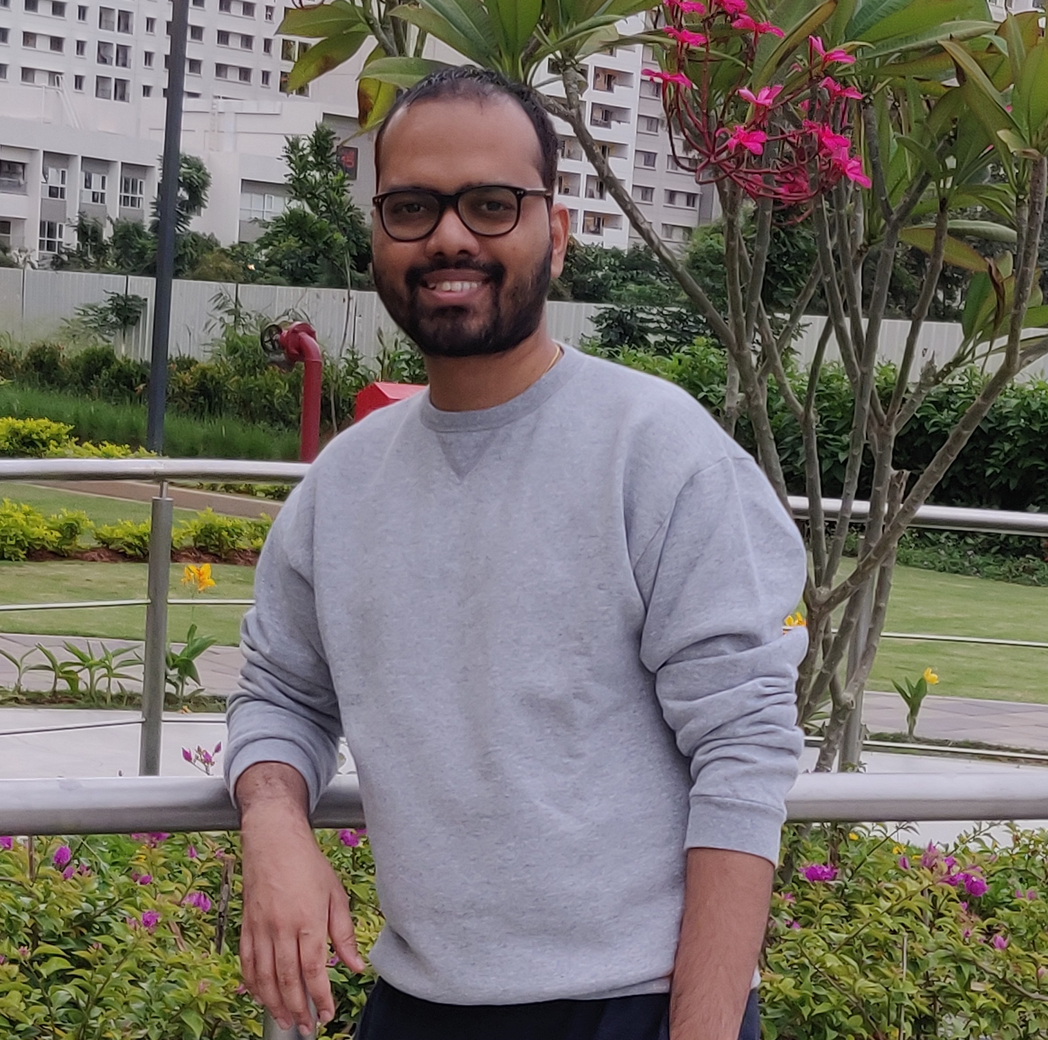
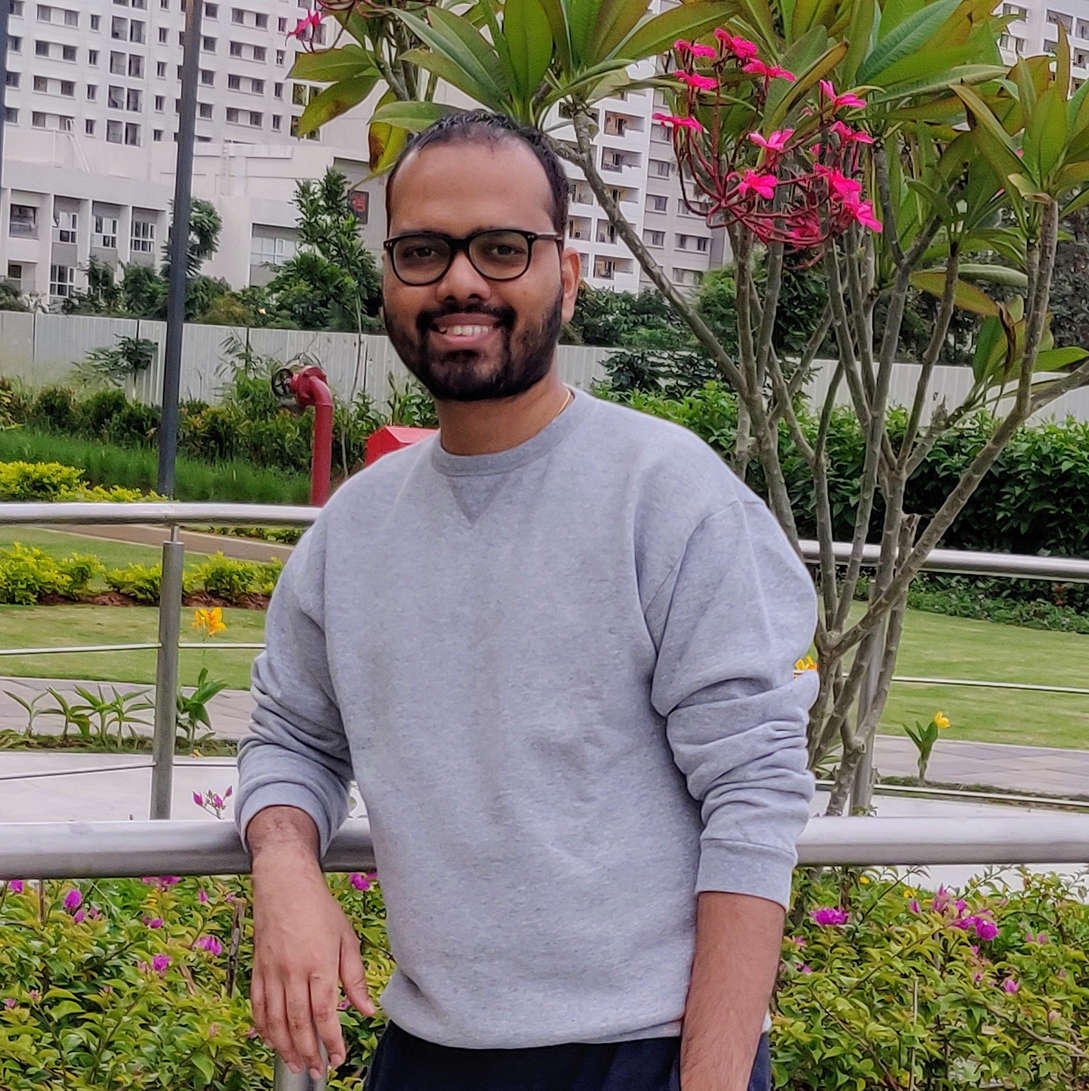
rebuilding site Sun Jul 19 23:51:14 IST 2020

diff --git a/index.html b/index.html
@@ -735,7 +735,7 @@
       
     
     
-      <a href="/authors/vamsee/"><img class="portrait" src="/authors/vamsee/avatar_huacdd85646c37b280ab791a4f75cf8417_1450269_150x150_fill_q90_lanczos_center.jpg" alt="Avatar"></a>
+      <a href="/authors/vamsee/"><img class="portrait" src="/authors/vamsee/avatar_hud9c3f324c40695650e98ba4a907c1c5a_1285095_2560x2560_fill_q100_lanczos_center.jpg" alt="Avatar"></a>
     
 
     <div class="portrait-title">
@@ -767,7 +767,7 @@
       
     
     
-      <a href="/authors/bibek/"><img class="portrait" src="/authors/bibek/avatar_huf88d85c3558c3c802d2f6a9111a0a7c9_75331_150x150_fill_q90_lanczos_center.jpg" alt="Avatar"></a>
+      <a href="/authors/bibek/"><img class="portrait" src="/authors/bibek/avatar_huf88d85c3558c3c802d2f6a9111a0a7c9_75331_2560x2560_fill_q100_lanczos_center.jpg" alt="Avatar"></a>
     
 
     <div class="portrait-title">
@@ -792,7 +792,7 @@
       
     
     
-      <a href="/authors/pulkit/"><img class="portrait" src="/authors/pulkit/avatar_huf508247faad0400e43cdf99f96928a70_237040_150x150_fill_q90_lanczos_center.jpg" alt="Avatar"></a>
+      <a href="/authors/pulkit/"><img class="portrait" src="/authors/pulkit/avatar_huf508247faad0400e43cdf99f96928a70_237040_2560x2560_fill_q100_lanczos_center.jpg" alt="Avatar"></a>
     
 
     <div class="portrait-title">
@@ -1054,7 +1054,7 @@
       
       
       <a href="/project/xps/" >
-        <img src="/project/xps/featured_hufec4c31f99f178abcc006d350f91dfd5_161139_540x0_resize_q90_lanczos.jpg" itemprop="image" alt="">
+        <img src="/project/xps/featured_hufec4c31f99f178abcc006d350f91dfd5_161139_540x0_resize_q100_lanczos.jpg" itemprop="image" alt="">
       </a>
       
     </div>
@@ -1143,7 +1143,7 @@
       
       
       <a href="/project/ips/" >
-        <img src="/project/ips/featured_hufec4c31f99f178abcc006d350f91dfd5_279489_540x0_resize_q90_lanczos.jpg" itemprop="image" alt="">
+        <img src="/project/ips/featured_hufec4c31f99f178abcc006d350f91dfd5_279489_540x0_resize_q100_lanczos.jpg" itemprop="image" alt="">
       </a>
       
     </div>

diff --git a/project/ips/index.html b/project/ips/index.html
@@ -644,7 +644,7 @@
 
 <div class="article-header article-container featured-image-wrapper mt-4 mb-4" style="max-width: 720px; max-height: 540px;">
   <div style="position: relative">
-    <img src="/project/ips/featured_hufec4c31f99f178abcc006d350f91dfd5_279489_720x0_resize_q90_lanczos.jpg" alt="" class="featured-image">
+    <img src="/project/ips/featured_hufec4c31f99f178abcc006d350f91dfd5_279489_720x0_resize_q100_lanczos.jpg" alt="" class="featured-image">
     
   </div>
 </div>
@@ -691,7 +691,7 @@
   <div class="media author-card" itemscope itemtype="http://schema.org/Person">
     
       
-      <img class="portrait mr-3" src="/authors/vamsee/avatar_huacdd85646c37b280ab791a4f75cf8417_1450269_250x250_fill_q90_lanczos_center.jpg" itemprop="image" alt="Avatar">
+      <img class="portrait mr-3" src="/authors/vamsee/avatar_hud9c3f324c40695650e98ba4a907c1c5a_1285095_250x250_fill_q100_lanczos_center.jpg" itemprop="image" alt="Avatar">
     
 
     <div class="media-body">

diff --git a/project/xps/index.html b/project/xps/index.html
@@ -644,7 +644,7 @@
 
 <div class="article-header article-container featured-image-wrapper mt-4 mb-4" style="max-width: 720px; max-height: 540px;">
   <div style="position: relative">
-    <img src="/project/xps/featured_hufec4c31f99f178abcc006d350f91dfd5_161139_720x0_resize_q90_lanczos.jpg" alt="" class="featured-image">
+    <img src="/project/xps/featured_hufec4c31f99f178abcc006d350f91dfd5_161139_720x0_resize_q100_lanczos.jpg" alt="" class="featured-image">
     
   </div>
 </div>
@@ -692,7 +692,7 @@
   <div class="media author-card" itemscope itemtype="http://schema.org/Person">
     
       
-      <img class="portrait mr-3" src="/authors/vamsee/avatar_huacdd85646c37b280ab791a4f75cf8417_1450269_250x250_fill_q90_lanczos_center.jpg" itemprop="image" alt="Avatar">
+      <img class="portrait mr-3" src="/authors/vamsee/avatar_hud9c3f324c40695650e98ba4a907c1c5a_1285095_250x250_fill_q100_lanczos_center.jpg" itemprop="image" alt="Avatar">
     
 
     <div class="media-body">

diff --git a/teaching/assignments/1/index.html b/teaching/assignments/1/index.html
@@ -604,7 +604,7 @@ c) Which wavefunctions would be suitable approximate wavefunctions? [Hint: try t
   <div class="media author-card" itemscope itemtype="http://schema.org/Person">
     
       
-      <img class="portrait mr-3" src="/authors/vamsee/avatar_huacdd85646c37b280ab791a4f75cf8417_1450269_250x250_fill_q90_lanczos_center.jpg" itemprop="image" alt="Avatar">
+      <img class="portrait mr-3" src="/authors/vamsee/avatar_hud9c3f324c40695650e98ba4a907c1c5a_1285095_250x250_fill_q100_lanczos_center.jpg" itemprop="image" alt="Avatar">
     
 
     <div class="media-body">

diff --git a/teaching/assignments/3/index.html b/teaching/assignments/3/index.html
@@ -600,7 +600,7 @@ Determine the corresponding eigenvalue for $\hat H_0$ acting on $| \Phi_0 \rangl
   <div class="media author-card" itemscope itemtype="http://schema.org/Person">
     
       
-      <img class="portrait mr-3" src="/authors/vamsee/avatar_huacdd85646c37b280ab791a4f75cf8417_1450269_250x250_fill_q90_lanczos_center.jpg" itemprop="image" alt="Avatar">
+      <img class="portrait mr-3" src="/authors/vamsee/avatar_hud9c3f324c40695650e98ba4a907c1c5a_1285095_250x250_fill_q100_lanczos_center.jpg" itemprop="image" alt="Avatar">
     
 
     <div class="media-body">

diff --git a/teaching/assignments/0/index.html b/teaching/assignments/0/index.html
@@ -608,7 +608,7 @@ $$H^{QO}_{i,i-4} = \frac{1}{2}\sqrt{i(i-1)(i-2)(i-3)} ;\text{. (10pts)}$$</p>
   <div class="media author-card" itemscope itemtype="http://schema.org/Person">
     
       
-      <img class="portrait mr-3" src="/authors/vamsee/avatar_huacdd85646c37b280ab791a4f75cf8417_1450269_250x250_fill_q90_lanczos_center.jpg" itemprop="image" alt="Avatar">
+      <img class="portrait mr-3" src="/authors/vamsee/avatar_hud9c3f324c40695650e98ba4a907c1c5a_1285095_250x250_fill_q100_lanczos_center.jpg" itemprop="image" alt="Avatar">
     
 
     <div class="media-body">

diff --git a/teaching/assignments/2/index.html b/teaching/assignments/2/index.html
@@ -616,7 +616,7 @@ $$</p>
   <div class="media author-card" itemscope itemtype="http://schema.org/Person">
     
       
-      <img class="portrait mr-3" src="/authors/vamsee/avatar_huacdd85646c37b280ab791a4f75cf8417_1450269_250x250_fill_q90_lanczos_center.jpg" itemprop="image" alt="Avatar">
+      <img class="portrait mr-3" src="/authors/vamsee/avatar_hud9c3f324c40695650e98ba4a907c1c5a_1285095_250x250_fill_q100_lanczos_center.jpg" itemprop="image" alt="Avatar">
     
 
     <div class="media-body">

diff --git a/teaching/assignments/4/index.html b/teaching/assignments/4/index.html
@@ -616,7 +616,7 @@ $$</p>
   <div class="media author-card" itemscope itemtype="http://schema.org/Person">
     
       
-      <img class="portrait mr-3" src="/authors/vamsee/avatar_huacdd85646c37b280ab791a4f75cf8417_1450269_250x250_fill_q90_lanczos_center.jpg" itemprop="image" alt="Avatar">
+      <img class="portrait mr-3" src="/authors/vamsee/avatar_hud9c3f324c40695650e98ba4a907c1c5a_1285095_250x250_fill_q100_lanczos_center.jpg" itemprop="image" alt="Avatar">
     
 
     <div class="media-body">

diff --git a/teaching/assignments/20.1/index.html b/teaching/assignments/20.1/index.html
@@ -602,7 +602,7 @@
   <div class="media author-card" itemscope itemtype="http://schema.org/Person">
     
       
-      <img class="portrait mr-3" src="/authors/vamsee/avatar_huacdd85646c37b280ab791a4f75cf8417_1450269_250x250_fill_q90_lanczos_center.jpg" itemprop="image" alt="Avatar">
+      <img class="portrait mr-3" src="/authors/vamsee/avatar_hud9c3f324c40695650e98ba4a907c1c5a_1285095_250x250_fill_q100_lanczos_center.jpg" itemprop="image" alt="Avatar">
     
 
     <div class="media-body">

diff --git a/authors/vamsee/index.html b/authors/vamsee/index.html
@@ -497,7 +497,7 @@
 
       
       
-      <img class="portrait" src="/authors/vamsee/avatar_huacdd85646c37b280ab791a4f75cf8417_1450269_250x250_fill_q90_lanczos_center.jpg" itemprop="image" alt="Avatar">
+      <img class="portrait" src="/authors/vamsee/avatar_hud9c3f324c40695650e98ba4a907c1c5a_1285095_250x250_fill_q100_lanczos_center.jpg" itemprop="image" alt="Avatar">
       
 
       <div class="portrait-title">

diff --git a/authors/pulkit/index.html b/authors/pulkit/index.html
@@ -497,7 +497,7 @@
 
       
       
-      <img class="portrait" src="/authors/pulkit/avatar_huf508247faad0400e43cdf99f96928a70_237040_250x250_fill_q90_lanczos_center.jpg" itemprop="image" alt="Avatar">
+      <img class="portrait" src="/authors/pulkit/avatar_huf508247faad0400e43cdf99f96928a70_237040_250x250_fill_q100_lanczos_center.jpg" itemprop="image" alt="Avatar">
       
 
       <div class="portrait-title">

diff --git a/authors/bibek/index.html b/authors/bibek/index.html
@@ -497,7 +497,7 @@
 
       
       
-      <img class="portrait" src="/authors/bibek/avatar_huf88d85c3558c3c802d2f6a9111a0a7c9_75331_250x250_fill_q90_lanczos_center.jpg" itemprop="image" alt="Avatar">
+      <img class="portrait" src="/authors/bibek/avatar_huf88d85c3558c3c802d2f6a9111a0a7c9_75331_250x250_fill_q100_lanczos_center.jpg" itemprop="image" alt="Avatar">
       
 
       <div class="portrait-title">
